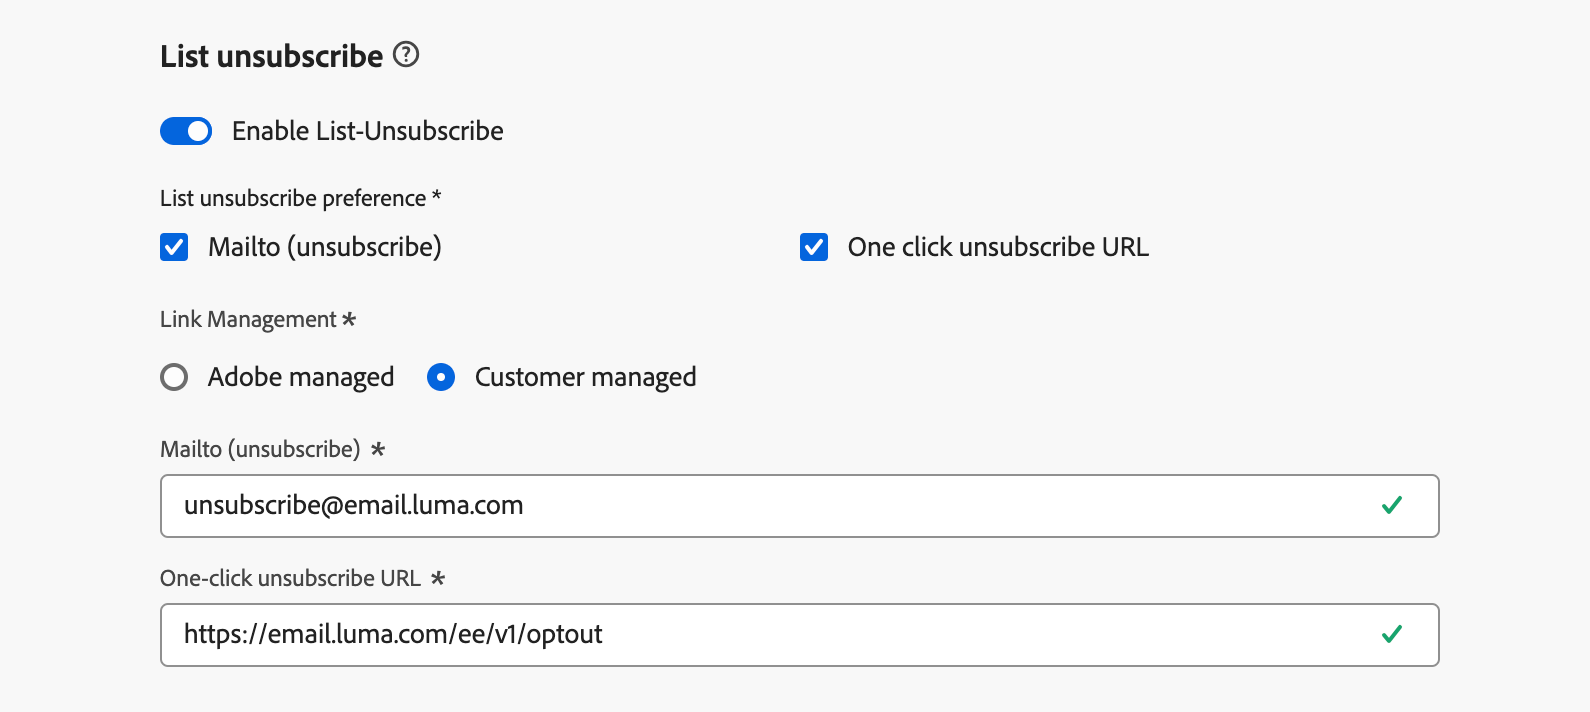
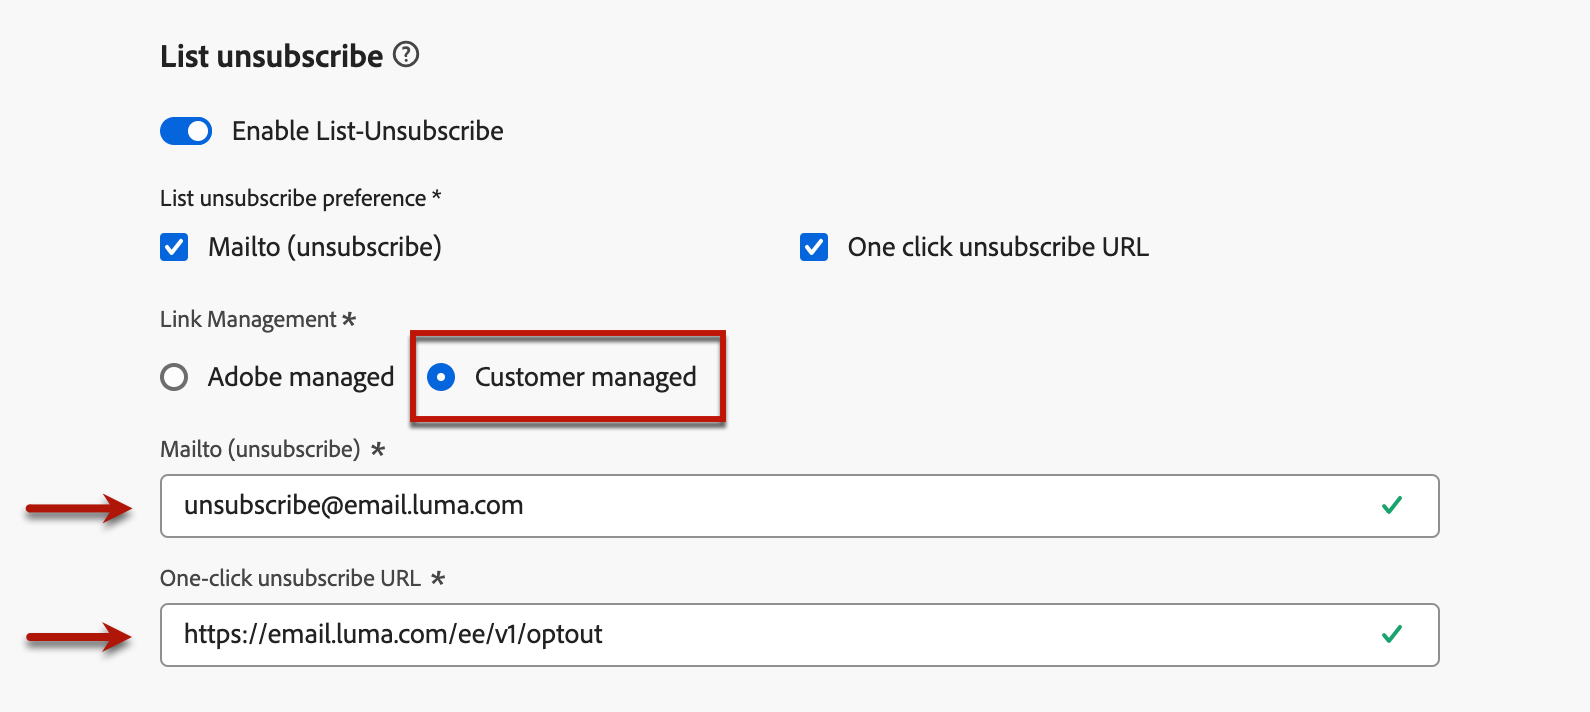
List unsubscribe custom managed (#1813)
* List unsubscribe cosmetic updates

* Update email-settings.md

* Merge branch 'main' into list-unsubscribe-custom

* Update email-opt-out.md

* minor updates

* DOCAC-11385 List-unsubscribe custom screenshots

* DOCAC-11385 List-unsubscribe custom address/URL

* Update email-settings.md

* DOCAC-11385 - List-unsubscribe additional PM info

* Small list-unsub updates

* Update email-settings.md

Contextual help for List-unsubscribe Customer managed option

* Update email-settings.md

* Update email-opt-out.md

* Update email-settings.md

* Update email-settings.md

* DOCAC-11749 + DOCAC-11385

* Update list-unsubscribe.md

* Update TOC.md

* Update list-unsubscribe.md

* Update list-unsubscribe.md

Feedback from Legal on Custom managed unsubscribe data handling

* Update list-unsubscribe.md

* DOCAC-11385 List unsubscribe

* Update list-unsubscribe.md

* Update list-unsubscribe.md

Legal wants this big warning as is

* DOCAC-11385 List unsubscribe LA

* Update release-notes.md

* Update list-unsubscribe.md

List unsubscribe decrypt API updates

* Update list-unsubscribe.md

API updates

* RN List unsubscribe custom managed

* Update release-notes.md

* Update release-notes.md

* Update release-notes.md

Changed region(s): [[0.2465, 0.4635, 0.4623, 0.618], [0.0, 0.8652, 0.0925, 0.927], [0.0, 0.6798, 0.0925, 0.7416]]

diff --git a/help/using/email/list-unsubscribe.md b/help/using/email/list-unsubscribe.md
@@ -1,0 +1,127 @@
+---
+solution: Journey Optimizer
+product: journey optimizer
+title: Configure email settings
+description: Learn how to configure List-Unsubscribe at the channel configuration level
+feature: Email, Surface
+topic: Administration
+role: Admin
+level: Experienced
+keywords: settings, email, configuration
+
+---
+# List unsubscribe{#list-unsubscribe}
+
+<!--Do not modify - Legal Review Done -->
+
+When configuring a new email channel configuration, upon [selecting a subdomain](email-settings.md#subdomains-and-ip-pools) from the list, the **[!UICONTROL Enable List-Unsubscribe]** option displays.
+
+![](assets/preset-list-unsubscribe.png)
+
+## Enable List unsubscribe {#enable-list-unsubscribe}
+
+This option is enabled by default to include a one-click unsubscribe URL into the email header, such as:
+
+![](assets/preset-list-unsubscribe-header.png)
+
+>[!NOTE]
+>
+>If you disable this option, no one-click unsubscribe URL is displayed in the email header.
+
+The List unsubscribe header offers two options, which are enabled by default unless you uncheck one or both:
+
+![](assets/surface-list-unsubscribe.png){width="80%"}
+
+* A **[!UICONTROL Mailto (unsubscribe)]** address, which is the destination address where unsubscribe requests are routed to for auto-processing.
+
+    In [!DNL Journey Optimizer], the unsubscribe email address is the default **[!UICONTROL Mailto (unsubscribe)]** address displayed in the channel configuration, based on your [selected subdomain](#subdomains-and-ip-pools). <!--With this method, clicking the Unsubscribe link sends a pre-filled email to the unsubscribe address specified in the email header.-->
+
+* The **[!UICONTROL One-click unsubscribe URL]**, which by default is the one-click opt-out URL generated List unsubscribe header, based on the subdomain you set and configured in the channel configuration settings. <!--With this method, clicking the Unsubscribe link directly unsubscribes the user, requiring only a single action to unsubscribe.-->
+
+You can select the **[!UICONTROL Consent level]** from the corresponding drop-down list. It can be specific to the channel or to the profile identity. Based on this setting, when a user unsubscribes using the list unsubscribe URL in the header of an email, the consent gets updated in [!DNL Adobe Journey Optimizer], either at the channel level or ID level.
+
+The **[!UICONTROL Mailto (unsubscribe)]** feature and the **[!UICONTROL One-click unsubscribe URL]** feature are optional.
+
+If you do not want to use the default generated one-click unsubscribe URL, you can uncheck the feature. In the scenario where the **[!UICONTROL Enable List-Unsubscribe]** option is toggled on and the **[!UICONTROL One-click Unsubscribe URL]** feature is unchecked, if you add a [one-click opt-out link](../email/email-opt-out.md#one-click-opt-out) to a message created using this configuration, the List unsubscribe header picks up the one-click opt-out link you have inserted in the body of the email and uses that as the one-click unsubscribe URL value.
+ 
+![](assets/preset-list-unsubscribe-opt-out-url.png)
+
+>[!NOTE]
+>
+>If you do not add a one-click opt-out link into your message content and the default **[!UICONTROL One-click unsubscribe URL]** is unchecked in the channel configuration settings, no URL is passed into the email header as part of the List unsubscribe header.
+
+Learn more on managing unsubscribe capabilities within your messages in [this section](../email/email-opt-out.md#unsubscribe-header).
+
+## Manage unsubscribe data externally {#custom-managed}
+
+>[!CONTEXTUALHELP]
+>id="ajo_email_config_unsubscribe_custom"
+>title="Define how unsubscribe data is managed"
+>abstract="**Adobe managed**: Consent data is managed by you within the Adobe system.<br>**Customer managed**: Consent data is managed by you in an external system and no synchronization of consent data is updated in the Adobe system unless initiated by you."
+
+>[!AVAILABILITY]
+>
+>This capability is released in Limited Availability (LA) for a small set of customers.
+
+If you are managing consent outside of Adobe, select the **[!UICONTROL Customer managed]** option to enter a custom unsubscribe email address and your own one-click unsubscribe URL.
+
+![](assets/surface-list-unsubscribe-custom.png){width="80%"}
+
+>[!WARNING]
+>
+>If you are using the **[!UICONTROL Customer managed]** option, Adobe is not storing any unsubscribe or consent data. With the **[!UICONTROL Customer managed]** option, organizations are electing to use an external system and will be responsible for managing their consent data in such external system. There is no auto synchronization of consent data between the external system and  [!DNL Journey Optimizer]. Any synching of consent data, which is sourced from the external system to update user consent data in [!DNL Journey Optimizer], must be initiated by the organization as a data transfer to push the consent data back into [!DNL Journey Optimizer].
+
+## Configure the decrypt API {#configure-decrypt-api}
+
+With the **[!UICONTROL Customer managed]** option selected, if you enter custom endpoints and use them in a campaign or journey, [!DNL Journey Optimizer] appends some default profile specific parameters to the consent update event <!--sent to the custom endpoint -->when your recipients click the Unsubscribe link.
+
+These parameters are sent to the endpoint in an encrypted manner. Thus, the external consent system needs to implement a specific API through [Adobe Developer](https://developer.adobe.com){target="_blank"} to decrypt the parameters sent by Adobe.
+
+The GET call to retrieve these parameters depends on the List unsubscribe option you are using - **[!UICONTROL One-click unsubscribe URL]** or **[!UICONTROL Mailto (unsubscribe)]**.
+
+<!--To configure the API to send back the information to [!DNL Adobe Journey Optimizer] when a recipient has unsubscribed using the List unsubscribe option with custom endpoints, follow the steps below.-->
+
++++ One-click unsubscribe URL
+
+With the **[!UICONTROL One-click unsubscribe URL]** option, clicking the Unsubscribe link directly unsubscribes the user.
+
+The GET call is as follows:
+
+Endpoint: https://platform.adobe.io/journey/imp/consent/decrypt
+
+Query parameters:
+
+* **params**: contains the encrypted payload
+* **pid**: encrypted profile ID
+
+These two parameters will be included into the consent update event sent to the custom endpoints.
+
+Header requirements:
+
+* x-api-key
+* x-gw-ims-org-id
+* authorization (user token from your technical account)
+
++++
+
++++ Mailto (unsubscribe)
+
+With the **[!UICONTROL Mailto (unsubscribe)]** option, clicking the Unsubscribe link sends a pre-filled email to the unsubscribe address specified.
+
+The GET call is as follows.
+
+Endpoint: https://platform.adobe.io/journey/imp/consent/decrypt
+
+Query parameters:
+
+* **emailParams**: string that contains the **params** (encrypted payload) and **pid** (encrypted profile ID) parameters.
+
+The **params** and **pid** parameters will be included into the consent update event sent to the custom endpoints.
+
+Header requirements:
+
+* x-api-key
+* x-gw-ims-org-id
+* authorization (user token from your technical account)
+
++++

diff --git a/help/using/email/email-settings.md b/help/using/email/email-settings.md
@@ -75,59 +75,11 @@ After an IP pool has been selected, PTR information is visible when hovering ove
 >
 >If a PTR record is not configured, reach out to your Adobe representative.
 
-## List Unsubscribe{#list-unsubscribe}
+## List unsubscribe {#list-unsubscribe}
 
->[!CONTEXTUALHELP]
->id="ajo_email_config_unsubscribe_custom"
->title="Define how unsubscribe data is managed"
->abstract="**Adobe managed**: Consent data is managed by you within the Adobe system.<br>**Customer managed**: Consent data is managed by you in an external system and no synchronization of consent data is updated in the Adobe system unless initiated by you."
+Upon selecting a subdomain from the list, the **[!UICONTROL Enable List-Unsubscribe]** option displays. It is enabled by default.
 
-<!--Do not modify - Legal Review Done -->
-
-Upon [selecting a subdomain](#subdomains-and-ip-pools) from the list, the **[!UICONTROL Enable List-Unsubscribe]** option displays.
-
-This option is enabled by default to include a one-click unsubscribe URL into the email header, such as:
-
-![](assets/preset-list-unsubscribe-header.png)
-
->[!NOTE]
->
->If you disable this option, no one-click unsubscribe URL is displayed in the email header.
-
-You can select the consent level from the **[!UICONTROL Consent level]** drop-down list. It can be specific to the channel or to the profile identity. Based on this setting, when a user unsubscribes using the list unsubscribe URL in the header of an email, the consent gets updated in Adobe Journey Optimizer either at the channel level or ID level.
-
-The List unsubscribe header offers two features, which are enabled by default unless you uncheck one or both features:
-
-![](assets/surface-list-unsubscribe-mailto.png){width="80%"}
-
-<!--![](assets/surface-list-unsubscribe.png){width="80%"}-->
-
-* A **Mailto (unsubscribe)** address, which is the destination address where unsubscribe requests are routed to for auto-processing.
-
-    In Journey Optimizer, the unsubscribe email address is the default **Mailto (unsubscribe)** address displayed in the channel configuration, based on your [selected subdomain](#subdomains-and-ip-pools).
-
-* The **One-click unsubscribe URL**, which by default is the one-click opt-out URL generated List unsubscribe header, based on the subdomain you set and configured in the channel configuration settings. 
-
-<!--
-    >[!AVAILABILITY]
-    >
-    >One-click Unsubscribe URL Header will be available in Adobe Journey Optimizer starting June 3, 2024.
-    >
--->
-
-The **[!UICONTROL Mailto (unsubscribe)]** feature and the **[!UICONTROL One-click unsubscribe URL]** feature are optional.
-
-If you do not want to use the default generated one-click unsubscribe URL, you can uncheck the feature. In the scenario where the **[!UICONTROL Enable List-Unsubscribe]** option is toggled on and the **[!UICONTROL One-click Unsubscribe URL]** feature is unchecked, if you add a [one-click opt-out link](../email/email-opt-out.md#one-click-opt-out) to a message created using this configuration, the List unsubscribe header picks up the one-click opt-out link you have inserted in the body of the email and uses that as the one-click unsubscribe URL value.
- 
-![](assets/preset-list-unsubscribe-opt-out-url.png)
-
->[!NOTE]
->
->If you do not add a one-click opt-out link into your message content and the default **[!UICONTROL One-click unsubscribe URL]** is unchecked in the channel configuration settings, no URL is passed into the email header as part of the List unsubscribe header.
-
-Learn more on managing unsubscribe capabilities in your messages in [this section](../email/email-opt-out.md#unsubscribe-header).
-
-<!--![](assets/surface-list-unsubscribe-custom.png){width="80%"}-->
+It enables you to include a one-click unsubscribe URL into the email header. [Learn more](list-unsubscribe.md)
 
 ## Header parameters {#email-header}
 

diff --git a/help/using/rn/release-notes.md b/help/using/rn/release-notes.md
@@ -16,7 +16,25 @@ exl-id: 06fa956a-b500-416e-9d42-b683c328e837
 
 [!DNL Adobe Journey Optimizer] continuously delivers new features, enhancements to existing features, and bug fixes. All changes are consolidated on the last week of each month in these release notes. [!DNL Adobe Journey Optimizer] is built natively on [!DNL Adobe Experience Platform] and inherits from its latest innovations and improvements. Learn more about these changes in [Adobe Experience Platform Release Notes](https://experienceleague.adobe.com/docs/experience-platform/release-notes/latest.html){target="_blank"}.
 
-## January '25 updates {#25-01-rn}
+## Latest '25 updates {#25-01-rn}
+
+### February improvement {#25-02-improvements}
+
+The improvement below comes with the February update.
+
+**Email configuration** - Availability date: Feb 10, 2025
+
+* If you are managing consent outside of Adobe, you can now set a custom unsubscribe email address and a custom one-click unsubscribe URL as part of your email channel configuration settings. [Read more](../email/list-unsubscribe.md#custom-managed)
+
+    ![](../email/assets/surface-list-unsubscribe-custom.png){width="80%"}
+
+    >[!AVAILABILITY]
+    >
+    >This capability is released in Limited Availability (LA) for a small set of customers.
+
+### New capabilities {#25-01-features}
+
+The new capabilities released in January are detailed below.
 
 <table>
 <thead>
@@ -53,9 +71,9 @@ exl-id: 06fa956a-b500-416e-9d42-b683c328e837
 </tbody>
 </table>
 
-### Improvements {#25-01-improvements}
+### January improvements {#25-01-improvements}
 
-This release comes with the improvements listed below.
+The improvements released in January are listed below.
 
 **Decisioning**
 

diff --git a/help/using/email/email-opt-out.md b/help/using/email/email-opt-out.md
@@ -31,7 +31,7 @@ To insert an unsubscription link in your email content, you can:
 
 With [!DNL Adobe Journey Optimizer], you can configure your [email configuration settings](email-settings.md#list-unsubscribe) with an auto-generated one-click unsubscribe URL and mailto address in the email header, or include a one-click opt-out URL in your email body.
 
-When a recipient clicks the one-click opt-out link, recipient's unsubscribe request is processed accordingly.
+When a recipient clicks the one-click opt-out link, that recipient's unsubscribe request is processed accordingly.
 
 ### One-click unsubscribe URL in the email header {#unsubscribe-header}
 
@@ -139,7 +139,7 @@ Query parameters:
 * **params**: contains the encrypted payload
 * **pid**: encrypted profile ID
 
-These three parameters will be included into the third-party landing page URL sent to your recipient:
+These two parameters will be included into the third-party landing page URL sent to your recipient:
 
 ![](assets/opt-out-parameters.png)
 

diff --git a/help/TOC.md b/help/TOC.md
@@ -219,6 +219,7 @@ solution: Journey Optimizer
       + [Get started with email configuration](using/email/get-started-email-config.md)
       + [Configure email configuration settings](using/email/email-settings.md)
       + [Personalize email configuration](using/email/surface-personalization.md)
+      + [Enable List unsubscribe](using/email/list-unsubscribe.md)
   + In-app channel{#in-app}
     + [Get started with In-app channel](using/in-app/get-started-in-app.md)
     + [In-app channel prerequisites](using/in-app/inapp-configuration.md)
